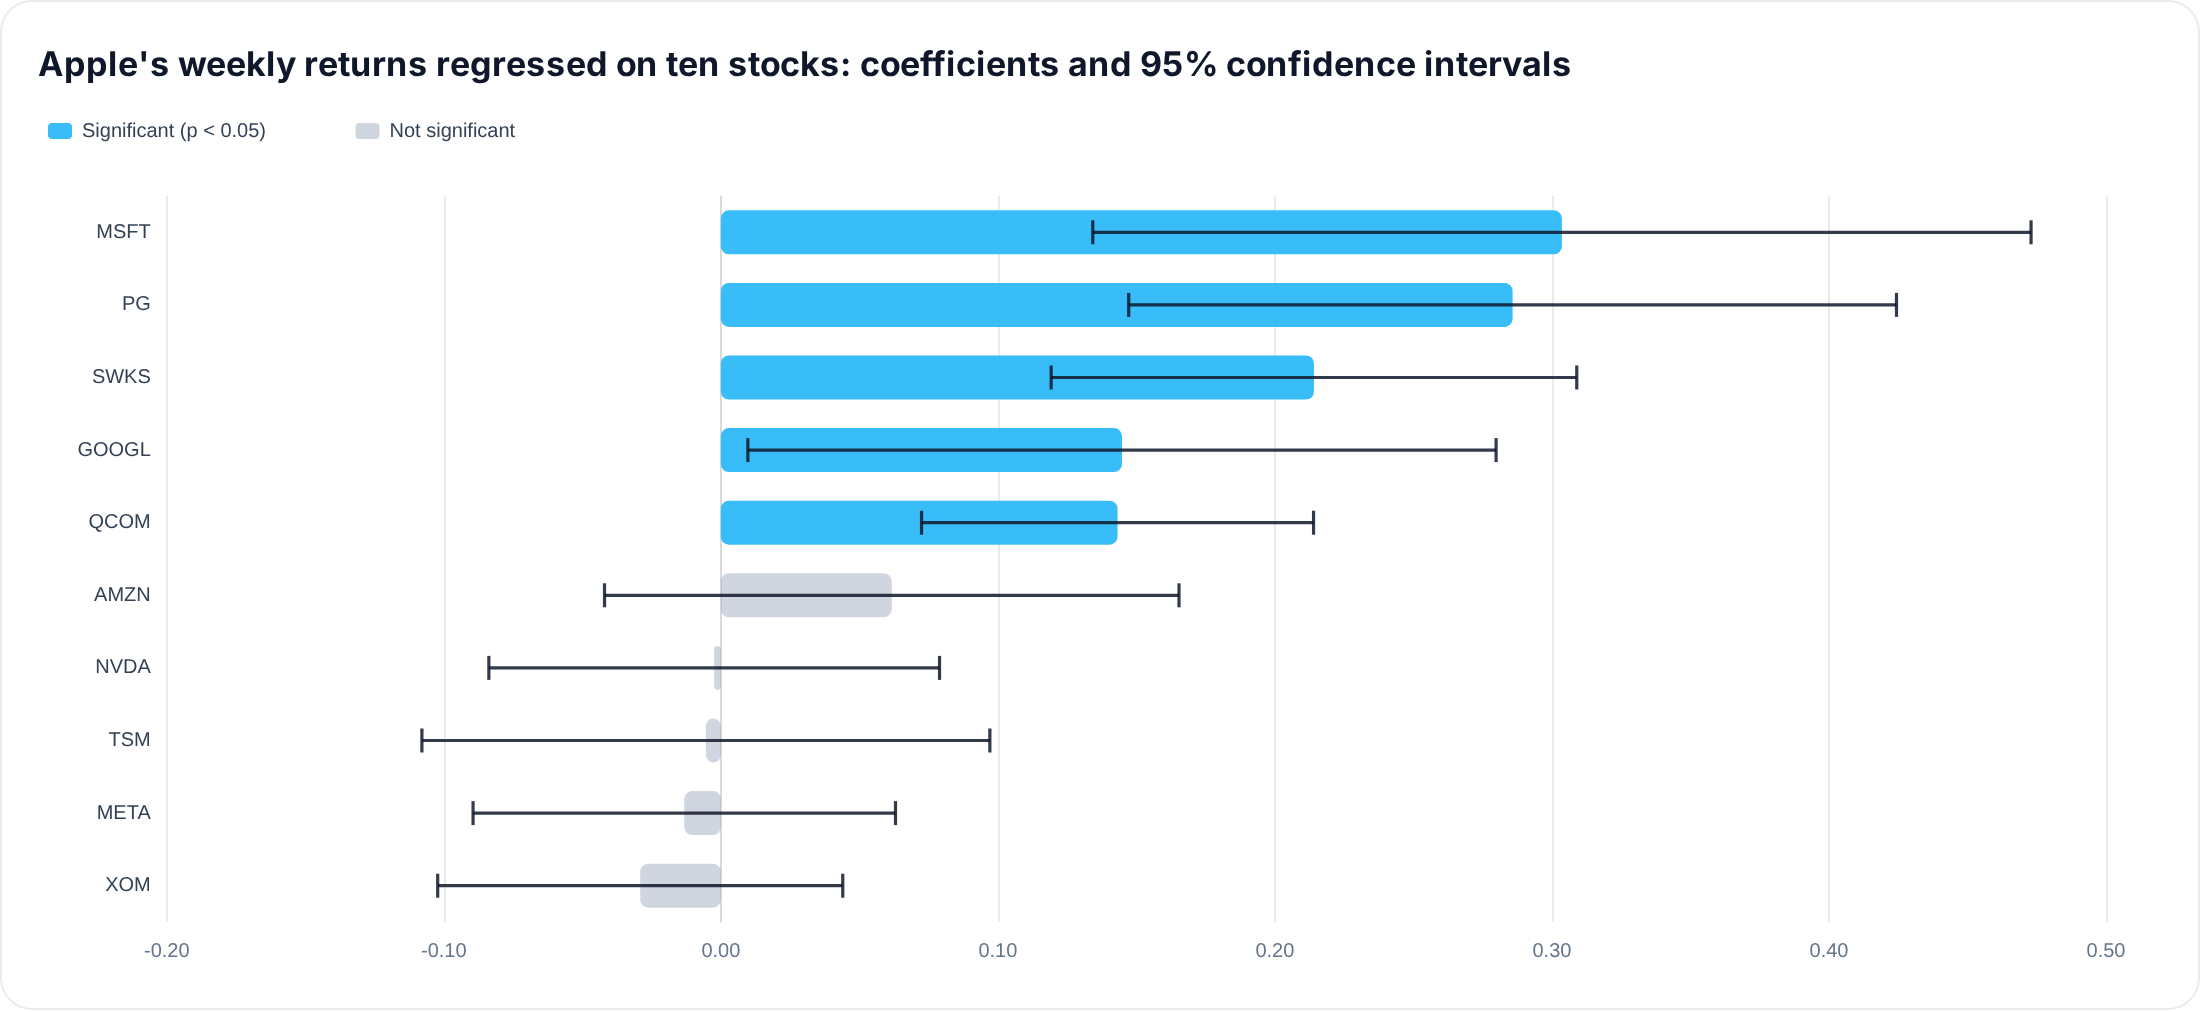
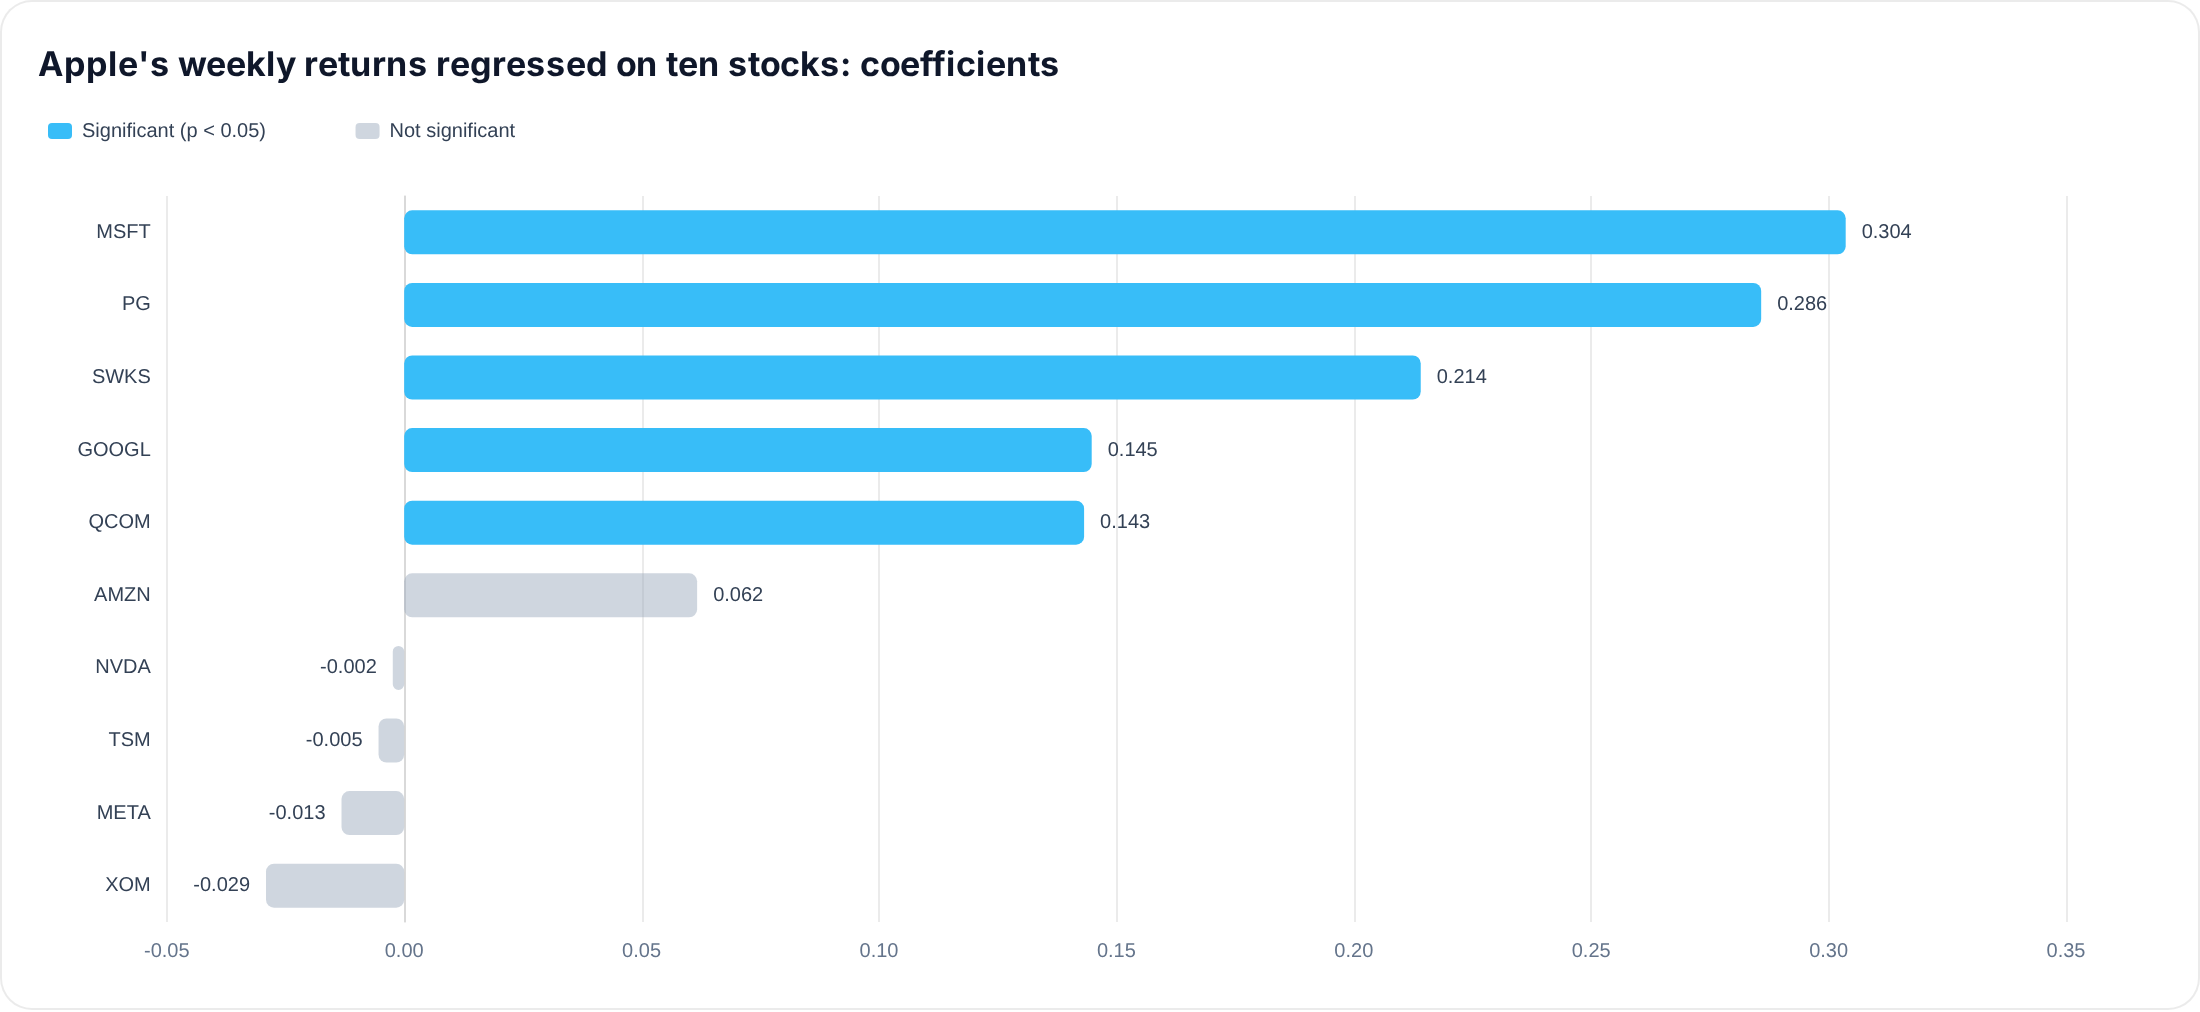
Show significance by bar colour alone in the Econometrics chart
The confidence-interval whiskers are dropped; the bar colour marks the
significant coefficients and each bar carries its value.

diff --git a/README.md b/README.md
@@ -502,7 +502,7 @@ Regressing Apple's returns on a mix of its chip suppliers, megacap peers and two
 | XOM       |       -0.0291 |       0.0373 |       -0.7799 |    0.4364 |
 | PG        |        0.2858 |       0.0707 |        4.0393 |    0.0001 |
 
-And below each coefficient is shown with its 95% confidence interval. A stock is statistically significant when its interval does not cross zero.
+And below each coefficient is shown, with the statistically significant ones (p < 0.05) highlighted.
 
 <picture>
   <source media="(prefers-color-scheme: dark)" srcset="https://raw.githubusercontent.com/JerBouma/FinanceToolkit/main/assets/readme/econometrics-dark.png">
